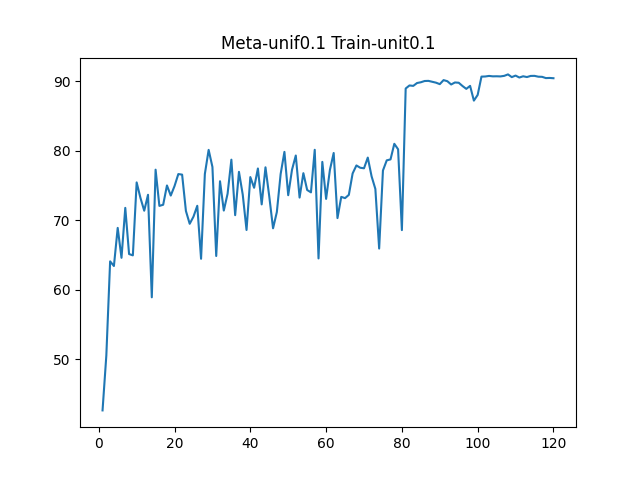
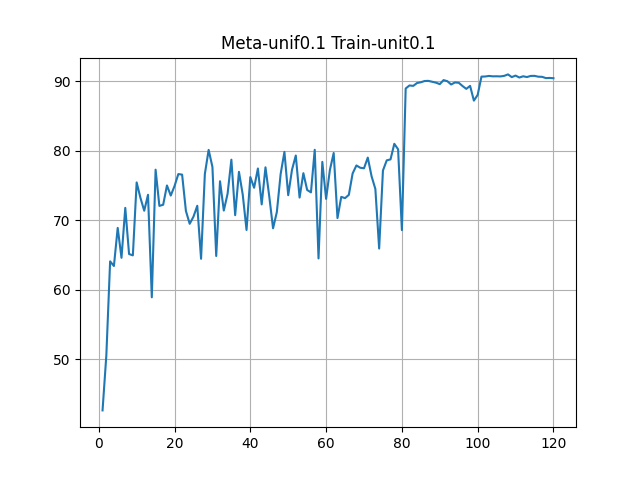
results

diff --git a/logs/load.py b/logs/load.py
@@ -42,6 +42,7 @@ for i in range(len(filename)):
     plt.title(titles[i])
     x = [i for i in range(1,121)]
     plt.plot(x, list_read)
+    plt.grid()
     plt.savefig(titles[i]+".png")
     plt.cla()
 
@@ -54,4 +55,5 @@ for i in range(len(filename)):
     plt.title("compare test accuracy")
     plt.plot(x, results[i], alpha=0.5, label=titles[i], color=colors[i])
 plt.legend()
+plt.grid()
 plt.savefig("entire.png")
